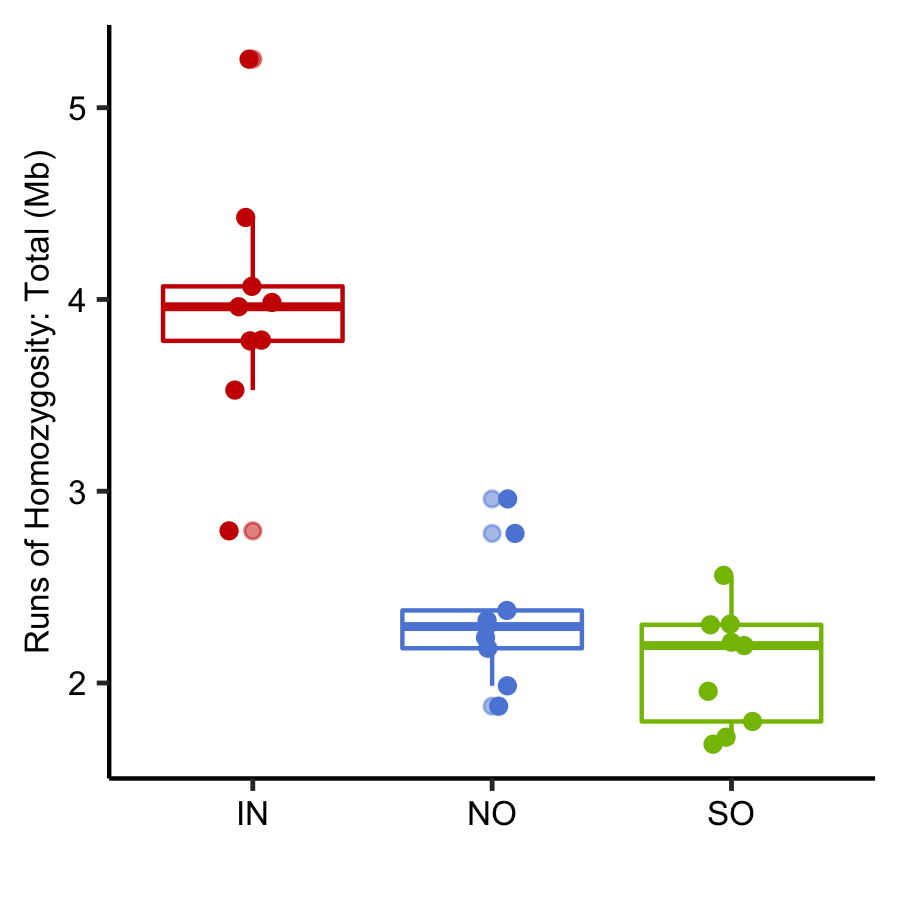
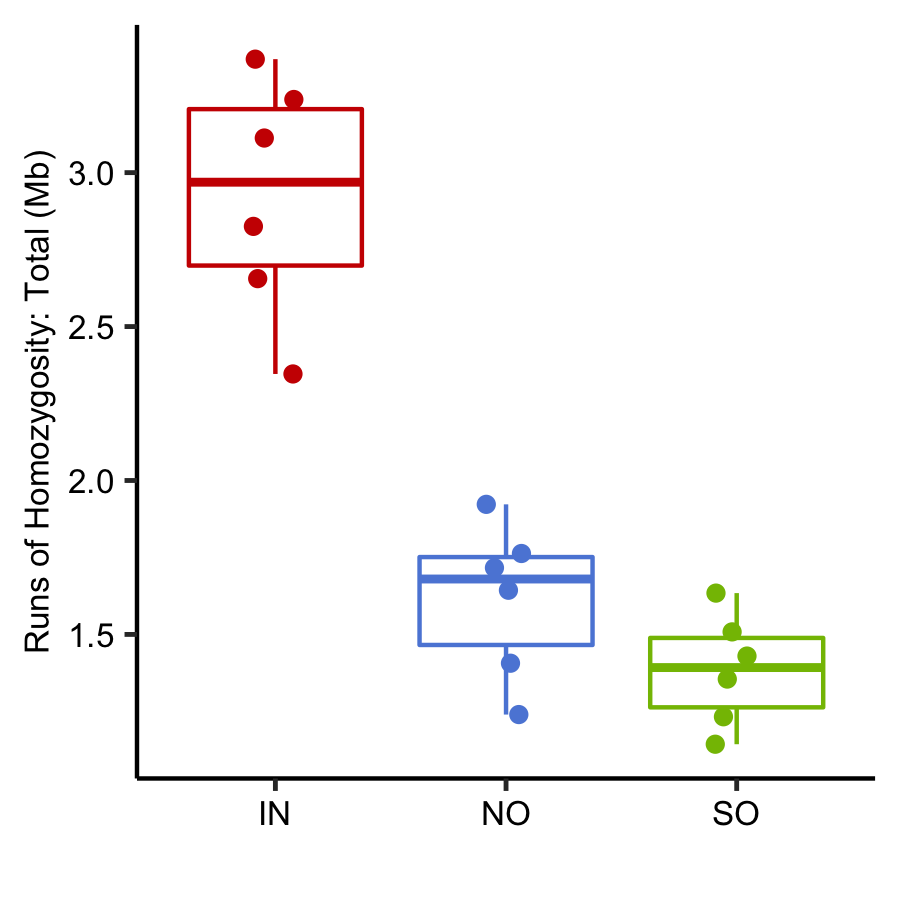
Update FSC sim

diff --git a/22b.fastsimcoal_sim.md b/22b.fastsimcoal_sim.md
@@ -1,17 +1,19 @@
-Demography with FSC
+Simulated data under the best fitting demographic model
 ================
 
 FastSimCoal can fit a demographic model to SFS data and it can also be
 used to simulate data under a demographic model. In our model selection
 process with FSC we determined the best model and obtained bootstrap
 estimates for its parameters (see
-[22a.fastsimcoal_fitting](22a.fastsimcoal_fitting.md)). These were then
+[22a.fastsimcoal\_fitting](22a.fastsimcoal_fitting.md)). These were then
 used as priors to simulate data under the model. An advantage of this is
 that it allows us to calculate many summary statistics other than just
 the SFS from the data, and determine whether these match or deviate from
 our real data.
 
-**Parameter Estimates**
+**Table 1:** Parameter estimates for the best fitting model estimated by
+FastSimCoal. Lower and Upper bounds enclose 90% of the distribution of
+bootstrap values.
 
 | param   |            lb |            ub |
 |:--------|--------------:|--------------:|
@@ -32,7 +34,7 @@ our real data.
 | TDIV1   |  3.110450e+03 |  4.457200e+03 |
 | TDIV2   |  3.498300e+03 |  5.230600e+03 |
 
-**Simulations**
+#### Simulations
 
 Using these parameters as priors we then run FSC to generate data as
 follows;
@@ -42,7 +44,7 @@ follows;
 ```
 
 Where the file
-[3.out.growth_rate_SC.tpl](data/hpc/fastsimcoal/growth_rate_SC/3.out.growth_rate_SC.tpl)
+[3.out.growth\_rate\_SC.tpl](data/hpc/fastsimcoal/growth_rate_SC/3.out.growth_rate_SC.tpl)
 and specifies that the simulation should generate 20 independent
 chromosomes of length 2mb using a recombination rate of 3.2e-8 and
 mutation rate of 1.2e-8. The outputs can be converted to vcf using the
@@ -50,22 +52,40 @@ awk script [gen2vcf](data/hpc/fastsimcoal/gen2vcf.awk).
 
 ## Calculations based on simulated data
 
-Long runs of homozygosity were calculated using ibdseq in the same way
-as for real data .. ie as in [06.ibd_hbd](06.ibd_hbd.md)
+Simulated data was converted to a vcf file and then used to estimate
+long runs of homozygosity, inbreeding coefficients, Tajima’s D and
+Admixture. All calculations followed the proceedures for real data as
+closely as possible. Specifically;
 
-PLINK was used to calculate heterozygosity statistics just as in
-[04.popgen_stats](04.popgen_stats.md)
-
-And `vk tajima` was used to calculate Tajima’s D in sliding windows as
-in [04.popgen_stats](04.popgen_stats.md)
-
-Admixture under the simulated model was assessed using `ADMIXTURE` in
-the same manner as for real data (as in
-[05.population_structure](05.population_structure.md)). Since the
-simulated data only included 20 chromosomes of size 2Mb the number of
-SNPs used was much lower than in the real data after filtering, however,
-all individuals still had assignment values of almost 100% to the
-relevant cluster. Results are shown visualised for a single simulation
-run in the figure
+-   Long runs of homozygosity were calculated using ibdseq in the same
+    way as for real data .. ie as in [06.ibd\_hbd](06.ibd_hbd.md)
+-   PLINK was used to calculate heterozygosity statistics just as in
+    [04.popgen\_stats](04.popgen_stats.md)
+-   `vk tajima` was used to calculate Tajima’s D in sliding windows as
+    in [04.popgen\_stats](04.popgen_stats.md)
+-   Admixture under the simulated model was assessed using `ADMIXTURE`
+    in the same manner as for real data (as in
+    [05.population\_structure](05.population_structure.md)). Results are
+    shown visualised for a single simulation run
 
 ![](22b.fastsimcoal_sim_files/figure-gfm/unnamed-chunk-6-1.png)<!-- -->
+
+**Figure 1:** Population genetic statistics and structure calculated
+using simulated data under the best fitting model. Colour scheme matches
+the one used for real data in all plots.
+
+In general the properties of simulated data reproduced key features of
+the real data. For long runs of Homozygosity and inbreeding coefficients
+the trend that inshore samples had much higher values was reproduced but
+the magnitude of values overall was lower than for real data. For
+Tajima’s D all samples had positive values whereas in real data the
+values were all negative, however in both cases the inshore population
+had a higher value. Both positive and negative values of Tajima’s D are
+indicators of a recent bottleneck, however the sign is very sensitive to
+the timing and strength of this bottleneck.
+
+The admixture plot shows almost complete assignment of each individual
+to its location-based population cluster. This result (same as for real
+data) shows that the migration coefficients inferred under the
+demographic model are sufficiently low as to be consistent with the
+strong structure and limited admixture observed in real data.
